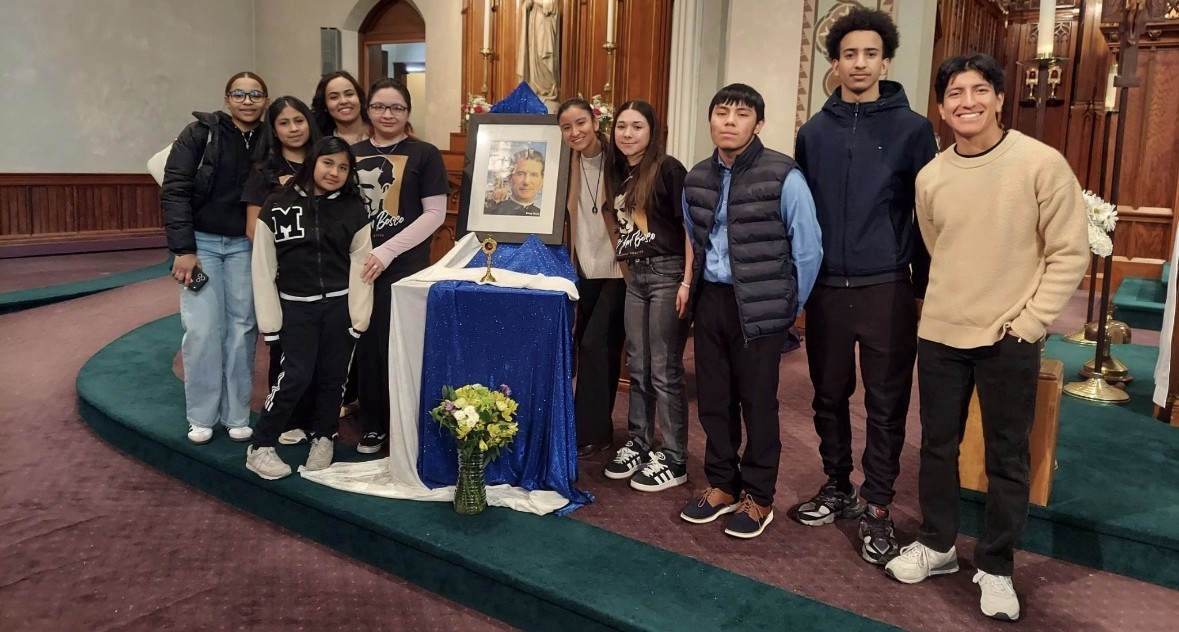
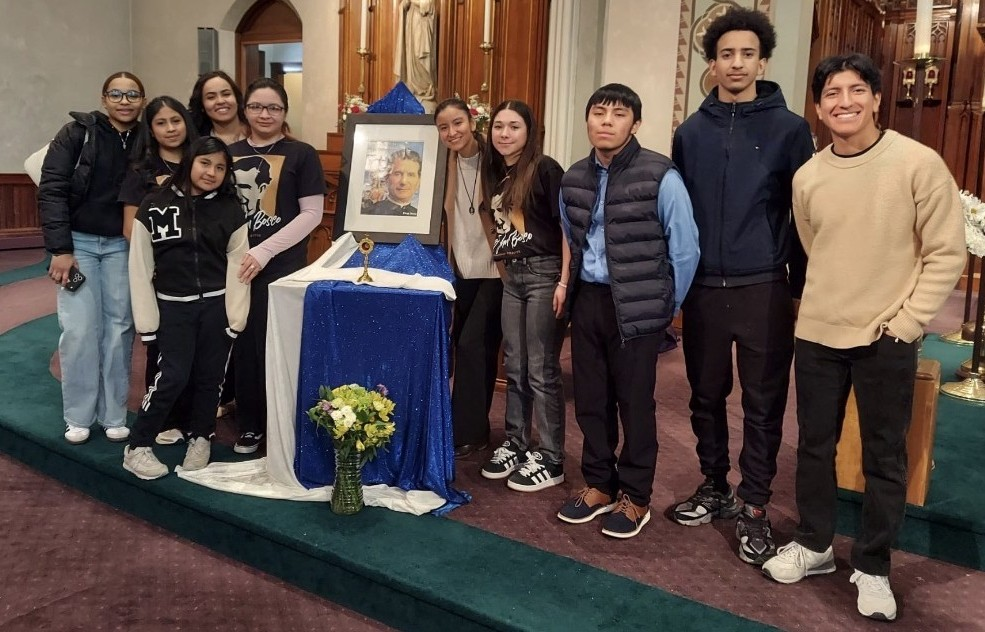
Completed Saint John Bosco information page.

diff --git a/src/pages/DonBoscoPage.jsx b/src/pages/DonBoscoPage.jsx
@@ -3,12 +3,73 @@ import Body from "../components/Body";
 export default function DonBoscoPage() {
     return (
         <Body sidebar>
-            <img
-                src="/YG_SJB.jpeg"
-                alt="Dia de Don Bosco"
-                style={{ width: '100%', height: 'auto', objectFit: 'cover', borderRadius: '12px', display: 'block', margin: '0 auto 16px' }}
-            />
-            Text here.
+            <div style={{ display: 'flex', gap: '12px', marginBottom: '16px', alignItems: 'stretch' }}>
+                <img
+                    src="/SJB_w_children.jpg"
+                    alt="Dia de Don Bosco"
+                    style={{ flex: '1 1 0', width: '0', maxWidth: '100%', height: 'auto', objectFit: 'cover', borderRadius: '12px', display: 'block' }}
+                />
+                <img
+                    src="/YG_SJB.jpeg"
+                    alt="Dia de Don Bosco"
+                    style={{ flex: '1 1 0', width: '0', maxWidth: '100%', height: 'auto', objectFit: 'cover', borderRadius: '12px', display: 'block' }}
+                />
+            </div>
+            
+            <h3 style={{textAlign:"left"}}>Resumen Rapido:</h3>
+            <div style={{ display: 'flex', justifyContent: 'flex-start', marginLeft: '24px' }}>
+                <ul style={{ listStyleType: 'disc', paddingLeft: '20px', margin: '5', textAlign: 'left', columnCount: 2, columnGap: '64px', paddingBottom: '20px' }}>
+                    <li>Fecha de nacimiento: Agosto 16, 1815</li>
+                    <li>Lugar de nacimiento: Italia</li>
+                    <li>Fecha de muerte: Enero 31, 1888</li>
+                    <li>Canonizado: Abril 1, 1934</li>
+                    <li>Padre de los jovenes</li>
+                    <li>Fundador de los Salesianos</li>
+                </ul>
+            </div>
+
+            <h3 style={{textAlign:"left", marginBottom: '16px'}}>Biografia:</h3>
+            <p style={{ marginBottom: '16px' }}>
+                Nacido en un pequeño pueblo italiano, Don Bosco siempre sintio desde joven un llamado
+                a ser instrumento de Dios. El tenía un gran amor y apreció a los pobres y a los jovenes.
+                Comenzo a tener sueños y visiones supernaturales, y dedicó su vida a la educación y el 
+                bienestar de los jovenes.
+            </p>
+            <p style={{ marginBottom: '16px' }}>
+                Cuando tenia dos años, murió el padre de Don Bosco, dejando a su madre con tres hijos.
+                A los nueve años, Don Bosco tuvó su primer de muchos sueños. En el sueño, el vio una 
+                multitud de jovenes jugando y diciendo palabras vulgares. El joven Don Bosco salto en
+                medio de ellos y comenzo a agitar la multidud. Alli llego un hombre y le informo que 
+                para ganarse esa multidud, el tendra que ser gentil y suave, no fuerte y feroz. Al 
+                final, una mujer le instruyo que el tendra que pastorear y enseñar.
+            </p>
+            <p style={{ marginBottom: '16px' }}>
+                A los diez años, Don Bosco comenzo a estudiar magos y trucos. El hacía muestras de
+                trucos, pero siempre incluía una oración antes y despues. Eso le ayudo a los jovenes
+                aprender como orar.
+            </p>
+            <p style={{ marginBottom: '16px' }}>
+                Don Bosco venía de un a familia muy pobre. El trataba de encontrar trabajo por todos
+                lados. Mientras buscaba trabajo, un padre noto el talento de Don Bosco, y le ayudo
+                a comenzar sus estudios. A los vientiseis años, Don Bosco fue ordenado padre.
+            </p>
+            <p style={{ marginBottom: '16px' }}>
+                De inmediato su trabajo comenzo. Don Bosco ofrecía posada a los que necesitaban.
+                Aunque le robaban las camas, colchas, y comida, Don Bosco no se daba por vencido.
+                Lentamente más y más jovenes se quedaban con Don Bosco, y asi fue creciendo su
+                ayuda. Algunos jovenes querían ayudarle a Don Bosco, por en cuanto fueron 
+                fundados los salesianos. Allí, Don Bosco y sus ayudantes se enfocaban en ayudar a
+                jovenes sin casa, y al mismo tiempo les enseñaban instrucciónes espirituales.
+            </p>
+            <p style={{ marginBottom: '16px' }}>
+                Poco a poco los salesianos continuaban creciendo. Con ellos, crecía el amor
+                hacía la juventud. Don Bosco nos enseño a todos que es importante disfrutar la
+                juventud. Tambien, es importante mantenernos honestos hacía la gracia de Dios.
+                Don Bosco siempre demostro que para enseñar a los jovenes, es importante ponerse
+                en los zapatos de ellos. Jugar con ellos, reir con ellos, celebrar con ellos, y
+                así sera salvada la juventud de muchos.
+            </p>
+
         </Body>
     )
 }
